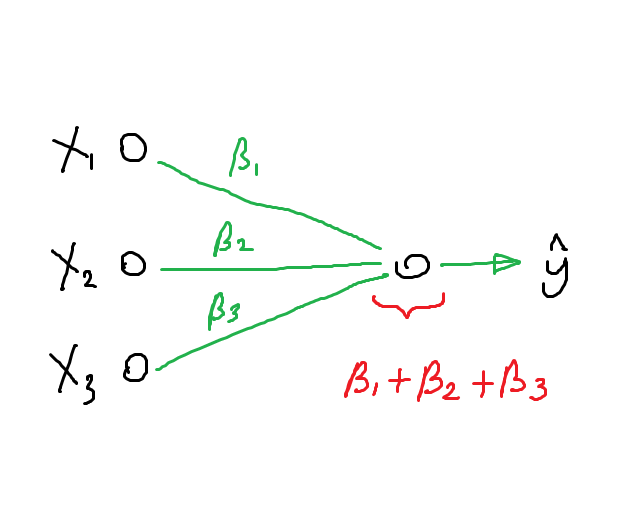
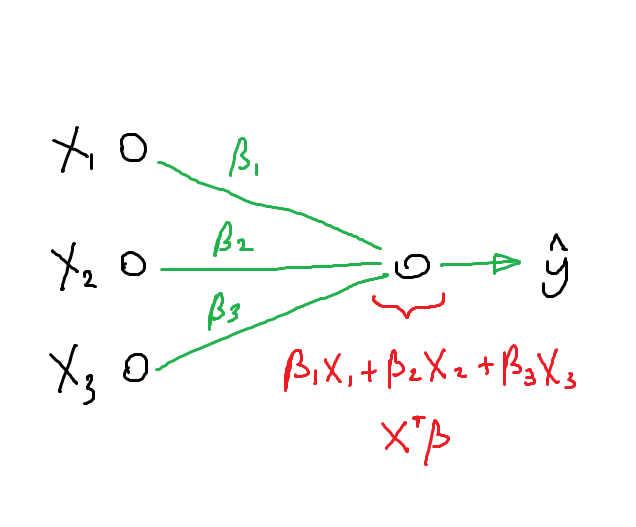
Add linear model images

Changed region(s): [[0.4481, 0.6679, 0.9261, 0.759], [0.5975, 0.7894, 0.717, 0.8805]]

diff --git a/nn.md b/nn.md
@@ -13,3 +13,16 @@
 - Around since the 1950s
 - Resurgence in 1970s
 - Resurgence in late 2000s
+
+## What is a neural network
+![A linear model](png/linmod1.png)
+
+## What is a neural network
+![A linear model](png/linmod2.png)
+
+## What is a neural network
+![A linear model](png/linmod3.png)
+
+## What is a neural network
+![A linear model](png/linmod4.png)
+
